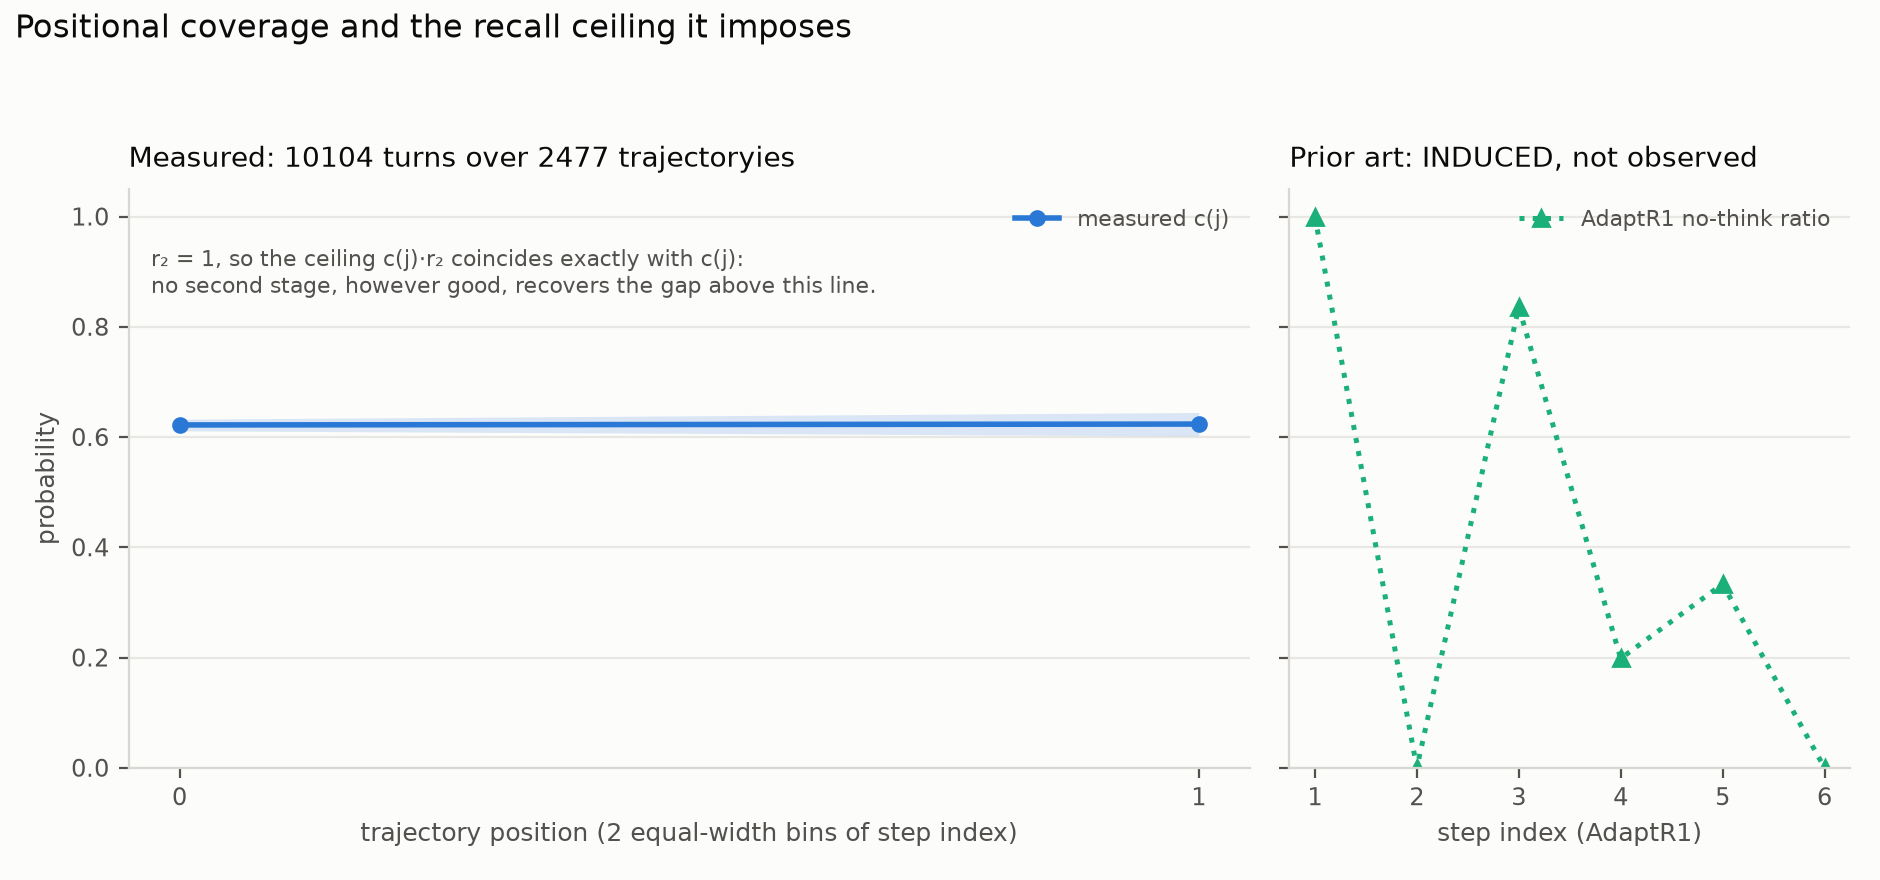
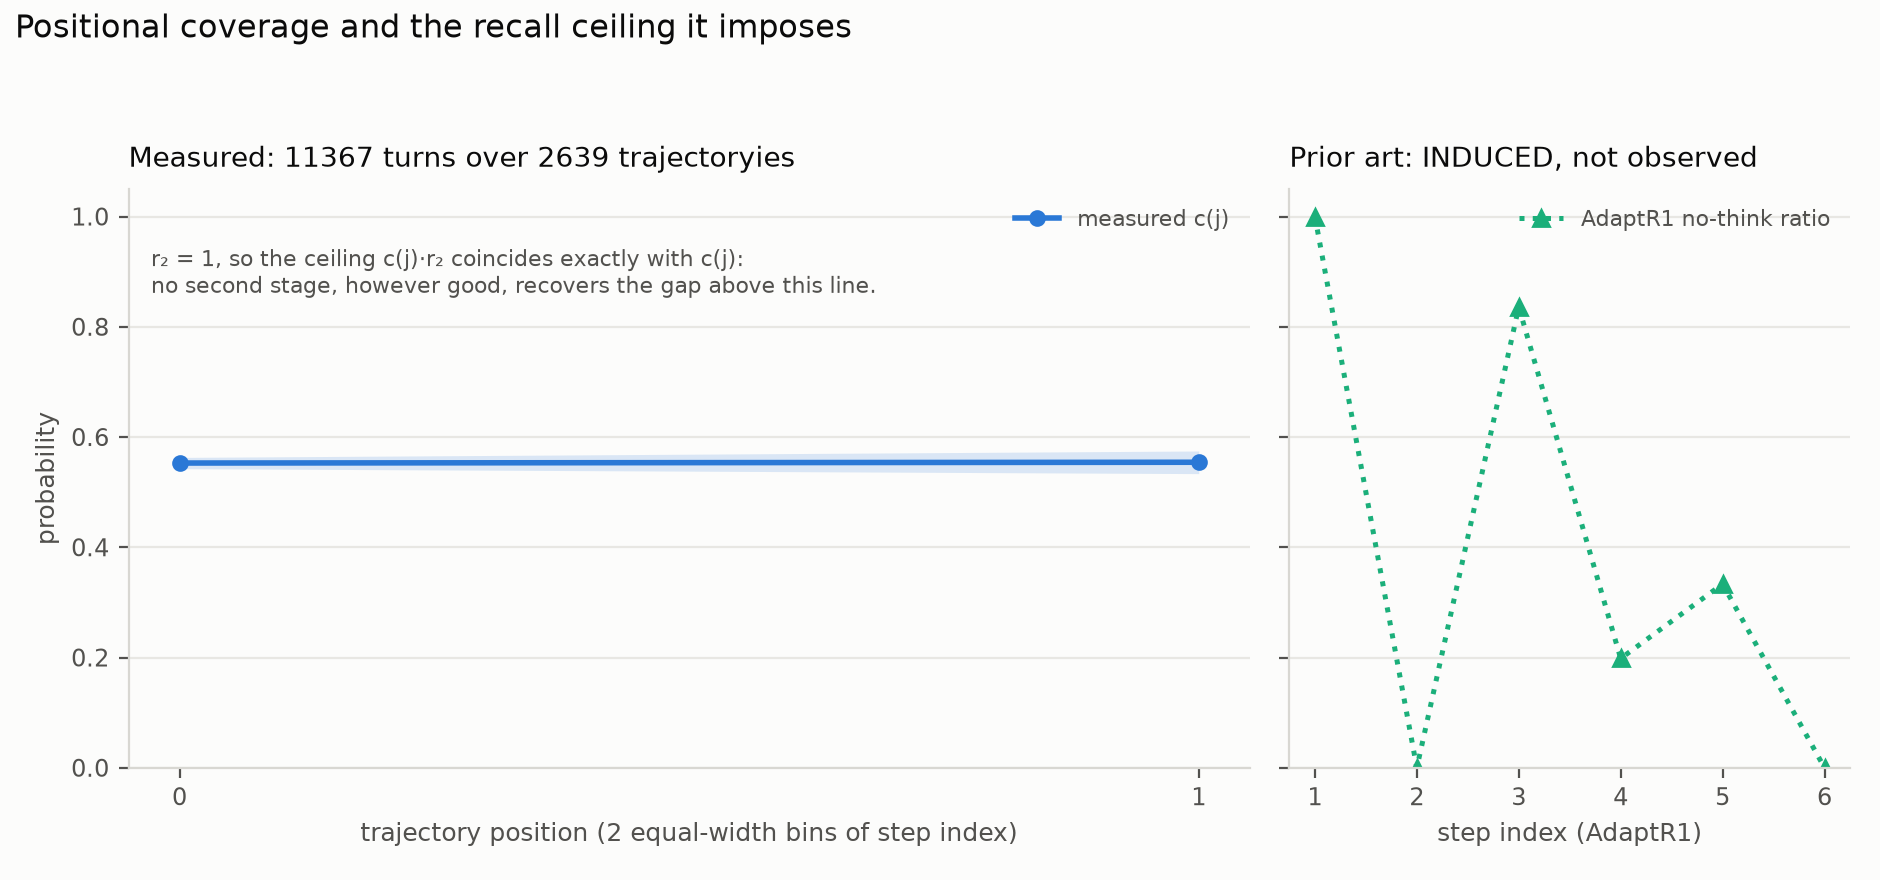
sweep complete: 9 arms, 11,367 turns, 10.86M reasoning tokens
All nine arms finished. 4/4 task logs and 1013/1013 samples on every arm, zero
errored samples, zero incomplete logs. OpenRouter spend $9.73.

  claude-haiku-4.5            raw 1.0000 [0.9970, 1.0000]      355,991 rtok
  gpt-oss-120b                raw 1.0000 [0.9970, 1.0000]      234,951 rtok
  qwen3-32b                   raw 1.0000 [0.9970, 1.0000]    1,045,862 rtok
  glm-4.7-flash               raw 0.9976 [0.9930, 0.9992]    1,774,952 rtok
  deepseek-v3.2-reasoning-on  raw 0.9802 [0.9709, 0.9866]      539,635 rtok
  gpt-5-nano-low              raw 0.0000  redacted 1.0000      341,726 rtok
  gpt-5-nano-medium           raw 0.0000  redacted 1.0000    1,834,432 rtok
  gpt-5-nano-high             raw 0.0000  redacted 1.0000    4,731,968 rtok
  deepseek-v3.2 (default)     raw 0.0000  absent   1.0000            0 rtok

Three results, each on complete 1,263-turn arms:

WITHIN-MODEL CONTROL. deepseek-v3.2 over identical sample ids, one request
parameter: 0.0000 -> 0.9802, disjoint intervals. Visibility was never a property
of the model.

EFFORT AXIS, the only manipulated variable in the project. Volume rose 13.8x
monotonically across three levels while raw_present stayed at exactly 0.0000
throughout. 6.9M reasoning tokens across those arms and a recall ceiling of
0.000. Thinking harder buys a deliberation-gated monitor nothing when the gate
is set by disclosure policy.

FOUR STATES EARNED THEIR KEEP. Four arms score raw_present 0.0000 and they are
[…]

Changed region(s): [[0.0926, 0.4602, 0.6479, 0.5523], [0.2777, 0.1534, 0.3394, 0.1841], [0.1543, 0.1534, 0.216, 0.1841]]

diff --git a/src/channels/figures.py b/src/channels/figures.py
@@ -38,8 +38,12 @@ from channels.schema import RateWithCI, ReasoningState
 STATE_COLOURS: dict[ReasoningState, str] = {
     ReasoningState.RAW_PRESENT: "#0d366b",
     ReasoningState.SUMMARY_ONLY: "#1c5cab",
-    ReasoningState.REDACTED: "#3987e5",
-    ReasoningState.ABSENT: "#86b6ef",
+    # REDACTED and ABSENT are the pair a reader must never confuse - "withheld"
+    # versus "never produced" is the distinction the four-state scheme exists
+    # for - so they are separated by hue as well as lightness rather than being
+    # two steps of one blue ramp.
+    ReasoningState.REDACTED: "#b4522b",
+    ReasoningState.ABSENT: "#c9c6c0",
 }
 
 # Categorical slots 1-3. Validated all-pairs: worst CVD dE 9.2, normal-vision 24.0.
@@ -53,7 +57,7 @@ TEXT_SECONDARY = "#52514e"
 
 # The two darkest ramp steps need light text on them; the two lightest need dark.
 _DARK_SEGMENTS = frozenset(
-    {ReasoningState.RAW_PRESENT, ReasoningState.SUMMARY_ONLY}
+    {ReasoningState.RAW_PRESENT, ReasoningState.SUMMARY_ONLY, ReasoningState.REDACTED}
 )
 
 STATE_LABELS: dict[ReasoningState, str] = {
@@ -81,6 +85,7 @@ def figure_one(
     grouped = (
         _group_by_model_task(cells) if by_task else _group_by_model(cells)
     )
+    grouped = _ordered_for_story(grouped)
     plotted = {
         key: group for key, group in grouped.items() if _n_of(group) >= MIN_CELL_N
     }
@@ -326,6 +331,28 @@ def _pooled_rate(group: Sequence[EmissionCell]) -> RateWithCI:
         n_clusters=max((c.n_clusters or 0) for c in group) or None,
     )
     return cell_rate(merged)
+
+
+def _ordered_for_story(
+    grouped: dict[tuple[str, ...], list[EmissionCell]],
+) -> dict[tuple[str, ...], list[EmissionCell]]:
+    """Order bars by readability, then by withholding, not alphabetically.
+
+    Alphabetical order scatters the finding: `deepseek-v3.2` (absent) landed
+    beside `deepseek-v3.2-reasoning-on` (raw) purely because of their names,
+    while the three arms that share a state sat apart. Sorting by raw_present
+    descending, then by redacted descending, puts the readable arms on the left,
+    the withheld arms together on the right, and the arms that produced nothing
+    at the far end - so the two different ways of scoring zero are adjacent and
+    comparable rather than interleaved.
+    """
+    def key(item: tuple[tuple[str, ...], list[EmissionCell]]) -> tuple[float, float]:
+        rate = _pooled_rate(item[1])
+        raw = rate.rate if rate.rate is not None else 0.0
+        redacted = _share_of(item[1], ReasoningState.REDACTED)
+        return (-raw, -redacted)
+
+    return dict(sorted(grouped.items(), key=key))
 
 
 def _bar_label(key: tuple[str, ...]) -> str:

diff --git a/RESULTS_SUMMARY.md b/RESULTS_SUMMARY.md
@@ -71,7 +71,7 @@ OpenRouter, 2026-09-12/13. Sample counts match §1 exactly so the two are
 comparable. Scoring disabled: we measure the channel, not performance.
 
 <!-- BEGIN:reasoning-status -->
-**8 of 9 arms complete**, 10,104 assistant turns measured. `MIN_CELL_N=30`; no cell is low-n. 0 sample(s) errored; 1 incomplete log(s) excluded and counted. Not yet run: `gpt-5-nano-high`.
+**9 of 9 arms complete**, 11,367 assistant turns measured. `MIN_CELL_N=30`; no cell is low-n. 0 sample(s) errored; 0 incomplete log(s) excluded and counted.
 <!-- END:reasoning-status -->
 
 Arms below are complete. Pending arms are **not** included in any figure or
@@ -91,6 +91,7 @@ the n actually measured.
 | `deepseek-v3.2-reasoning-on` | 1,263 | **0.9802** | [0.9709, 0.9866] | 0.0000 | 0.0000 | 0.0198 |
 | `gpt-5-nano-low` | 1,263 | **0.0000** | [0.0000, 0.0030] | 0.0000 | 1.0000 | 0.0000 |
 | `gpt-5-nano-medium` | 1,263 | **0.0000** | [0.0000, 0.0030] | 0.0000 | 1.0000 | 0.0000 |
+| `gpt-5-nano-high` | 1,263 | **0.0000** | [0.0000, 0.0030] | 0.0000 | 1.0000 | 0.0000 |
 <!-- END:reasoning-arms -->
 
 Zero samples errored. Incomplete logs are excluded and counted, not partially
@@ -203,16 +204,17 @@ This is the only arm where a variable was **manipulated** rather than observed,
 which is what spec §15 extension A asks for. `gpt-5-nano` was run over the same
 1,013 samples at each effort level, changing nothing else.
 
-| effort | n turns | reasoning tokens | mean tokens/turn | `raw_present` | `redacted` |
-|---|---|---|---|---|---|
-| low | 1,263 | 341,726 | 337 | **0.0000** | **1.0000** |
-| medium | 1,263 | 1,834,432 | 1,811 | **0.0000** | **1.0000** |
-| high | *running* | — | — | — | — |
+| effort | n turns | reasoning tokens | mean tokens/turn | vs. low | `raw_present` | `redacted` |
+|---|---|---|---|---|---|---|
+| low | 1,263 | 341,726 | 337 | 1.0× | **0.0000** | **1.0000** |
+| medium | 1,263 | 1,834,432 | 1,811 | **5.4×** | **0.0000** | **1.0000** |
+| high | 1,263 | 4,731,968 | 4,671 | **13.8×** | **0.0000** | **1.0000** |
 
-**The manipulation worked and the outcome did not move.** Raising effort from
-low to medium multiplied reasoning volume by **5.4×** — the model demonstrably
-thought far harder — while the share an evaluator can read stayed at exactly
-**0.0000**, and every turn stayed `redacted`.
+**The manipulation worked, monotonically, and the outcome never moved.** Raising
+effort from low to high multiplied reasoning volume by **13.8×** — the model
+demonstrably thought an order of magnitude harder — while the share an evaluator
+can read stayed at exactly **0.0000** at every level, and every one of 3,789
+turns stayed `redacted`.
 
 So *how much* a model reasons and *how much of it you may read* are separate
 quantities, and this arm moves one without moving the other. A monitor gated on
@@ -220,10 +222,10 @@ deliberation gains **nothing** from the model thinking 5.4× harder, because the
 gate is not set by the thinking. It is set by the disclosure policy.
 
 This matters for a specific bad inference: "the model reasoned a lot, so there
-was plenty for a monitor to catch". Here there were **1.8 million reasoning
-tokens** and a recall ceiling of **0.000**.
+was plenty for a monitor to catch". Across these three arms there were
+**6.9 million reasoning tokens** and a recall ceiling of **0.000** throughout.
 
-> **Scope.** One model, one vendor, two of three levels so far. It shows that
+> **Scope.** One model, one vendor, all three levels. It shows that
 > effort and disclosure *can* be independent, not that they always are — a
 > vendor that returns raw chains would presumably show `raw_present` at every
 > effort level. The claim is that volume is not evidence of visibility, and one

diff --git a/BUILD_LOG.md b/BUILD_LOG.md
@@ -732,3 +732,51 @@ stated in the registration itself: a commit in a repository the author controls
 proves content and order, not date, to someone who distrusts the author. Posting
 the two hashes above to any dated public service closes that gap whenever it is
 convenient, and where that happened belongs in the deviations log.
+
+---
+
+## Sweep complete — 2026-09-13 02:45
+
+Nine arms, four vendors, **11,367 assistant turns**, 9,117 samples,
+**10.86 million reasoning tokens**. Zero errored samples, zero incomplete logs.
+Total OpenRouter spend **$9.73**.
+
+| arm | raw_present | 95% CI | redacted | absent | reasoning tokens |
+|---|---|---|---|---|---|
+| `gpt-oss-120b` | 1.0000 | [0.9970, 1.0000] | 0 | 0 | 234,951 |
+| `qwen3-32b` | 1.0000 | [0.9970, 1.0000] | 0 | 0 | 1,045,862 |
+| `claude-haiku-4.5` | 1.0000 | [0.9970, 1.0000] | 0 | 0 | 355,991 |
+| `glm-4.7-flash` | 0.9976 | [0.9930, 0.9992] | 0 | 0.0024 | 1,774,952 |
+| `deepseek-v3.2-reasoning-on` | 0.9802 | [0.9709, 0.9866] | 0 | 0.0198 | 539,635 |
+| `deepseek-v3.2` (default) | **0.0000** | [0.0000, 0.0030] | 0 | **1.0000** | **0** |
+| `gpt-5-nano-low` | **0.0000** | [0.0000, 0.0030] | **1.0000** | 0 | 341,726 |
+| `gpt-5-nano-medium` | **0.0000** | [0.0000, 0.0030] | **1.0000** | 0 | 1,834,432 |
+| `gpt-5-nano-high` | **0.0000** | [0.0000, 0.0030] | **1.0000** | 0 | 4,731,968 |
+
+### What the sweep established, and what it did not
+
+**Three of the four states are populated by complete 1,263-turn arms.** That is
+the whole reason for a four-state classification rather than a binary: the
+DeepSeek default arm and the three `gpt-5-nano` arms all score 0.0000 on
+`raw_present`, and they are not the same finding. One produced no reasoning at
+all; the others produced up to 4.7 million tokens of it and withheld every word.
+
+**The within-model control.** Same model, same provider, same 1,013 sample ids,
+one request parameter: 0.0000 → 0.9802. Visibility was never a property of the
+model.
+
+**The effort axis** — the only manipulated variable in the project. Volume rose
+13.8× across three levels, monotonically; `raw_present` stayed at exactly 0.0000
+at every level. Thinking harder buys a deliberation-gated monitor nothing when
+the disclosure policy is what sets the gate.
+
+**`summary_only` is 0.0000 everywhere and that is an artefact, not a finding.**
+OpenRouter returns an encrypted chain *and* a summary for `gpt-5-nano`;
+`coverage.py` records the strongest limitation, so those turns are `redacted`.
+The state is structurally unobservable in this configuration.
+
+**What the sweep does not establish.** Every benchmark here is one or two turns.
+Nothing in it speaks to a hundred-step agentic run, which is the setting the
+argument is about, and the only long trajectory in the project is still Mythos
+at n = 1. Nine arms is also not a sample of vendors: it is nine arms chosen
+because their disclosure behaviour differs.
